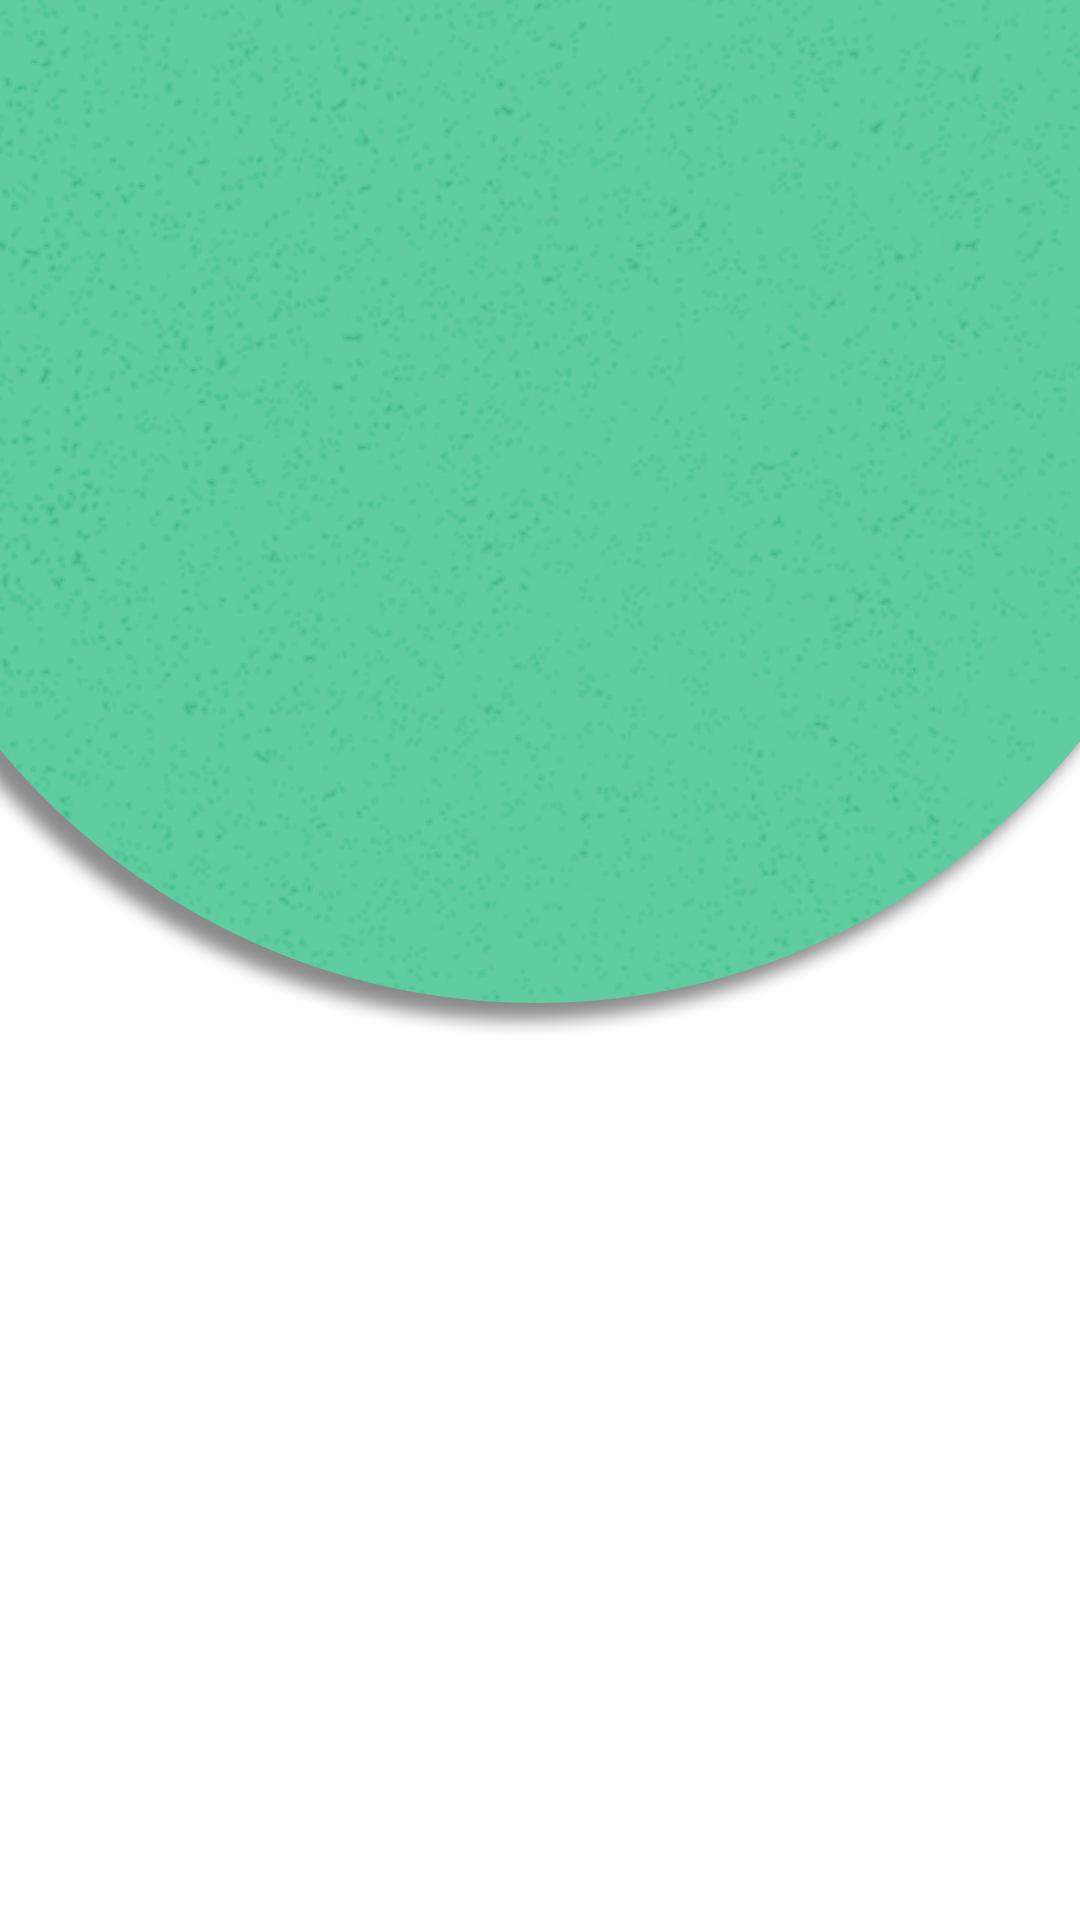
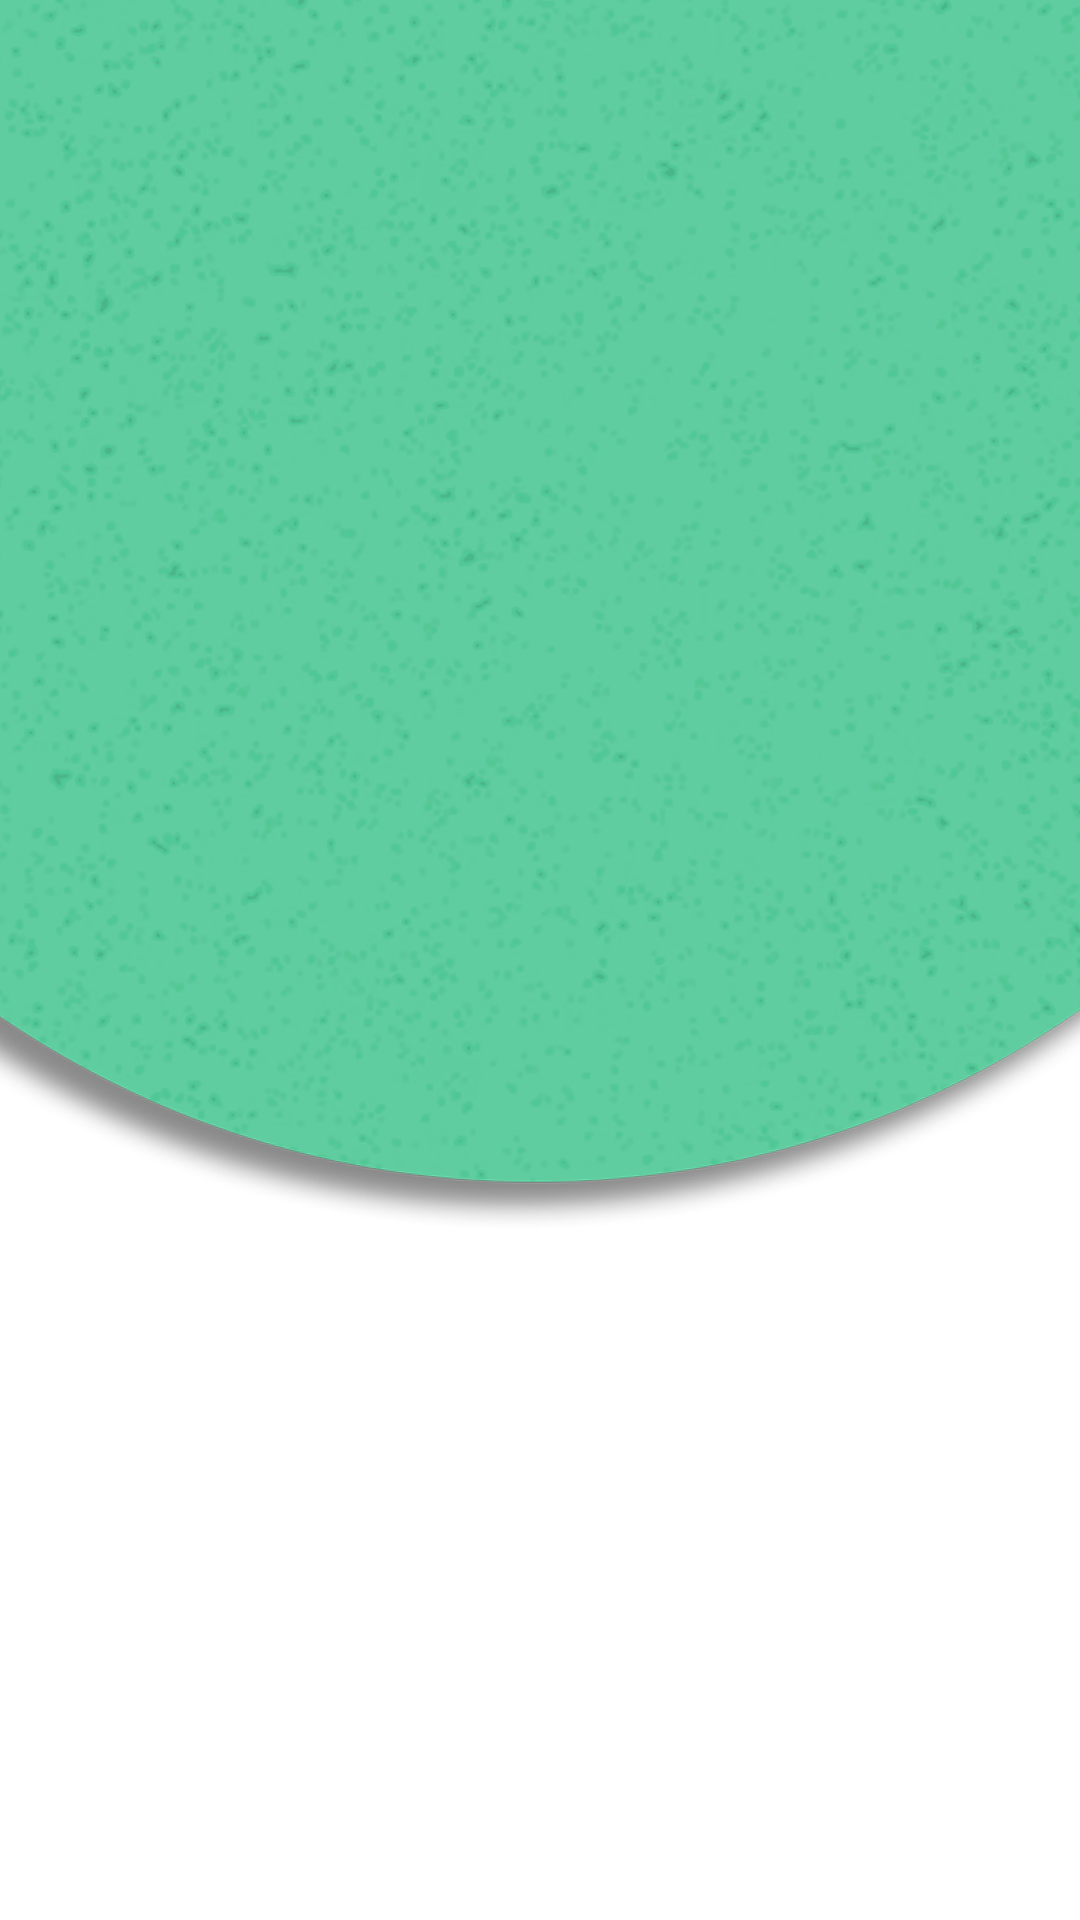
fix the content on smaller devices & some minor changes

Changed region(s): [[0.0, 0.375, 1.0, 0.6562]]

diff --git a/src/Pages/Contactuspage.jsx b/src/Pages/Contactuspage.jsx
@@ -6,7 +6,7 @@ const Contactuspage = () => {
       <Helmet>
         <title>SpiceSavvy - Contact Us </title>
       </Helmet>
-      <div className="container col-9 rounded" id="form">
+      <div className="container rounded" id="form">
         <div className="text-center">
           <h1 className="contact-head text-light">Contact Us</h1>
           <p className="text-light">
@@ -18,16 +18,16 @@ const Contactuspage = () => {
         </div>
         <div className="row d-flex mb-3">
           <div className="col-sm-6">
-            <label for="firstName" class="form-label text-light">
+            <label for="firstName" className="form-label text-light">
               First name
             </label>
-            <input type="text" class="form-control" />
+            <input type="text" className="form-control" />
           </div>
-          <div class="col-sm-6">
-            <label for="lastName" class="form-label text-light">
+          <div className="col-sm-6">
+            <label for="lastName" className="form-label text-light">
               Last name
             </label>
-            <input type="text" class="form-control" />
+            <input type="text" className="form-control" />
           </div>
         </div>
         <div className=" mb-3">
@@ -43,7 +43,7 @@ const Contactuspage = () => {
           <textarea className="form-control" id="text-area" rows="3"></textarea>
         </div>
         <div className="d-flex justify-content-center">
-          <button type="button" class="btn btn-dark btn-lg btn-block btn_contact_us mt-4 p-4">
+          <button type="button" className="btn btn-dark btn-lg btn-block btn_contact_us mt-4 p-4">
             Submit Feedback
           </button>
         </div>

diff --git a/src/Pages/Css/Style.css b/src/Pages/Css/Style.css
@@ -69,8 +69,8 @@ footer,
   background-image: url("/hero-image2.png");
   background-position: center;
   background-repeat: no-repeat;
-  width: 100vw;
-  height: 100vh;
+  width: cover;
+  height: auto;
 }
 
 #hero-btn {
@@ -104,8 +104,8 @@ footer,
 
 #hero-btn:hover {
   color: #fff;
-  border-color:#242424;
-  background-color: #004717;
+  border-color: #242424;
+  background-color: #00b118;
   box-shadow: rgba(0, 0, 0, 0.25) 0 8px 15px;
   transform: translateY(-2px);
 }
@@ -149,6 +149,54 @@ iframe {
   }
 }
 
+@media (max-width: 520px) {
+  #hero-section {
+    flex-wrap: wrap;
+    text-align: center;
+    background-image: url("/hero-image3.png");
+    background-position: center;
+    background-repeat: no-repeat;
+    width: contain;
+    height: auto;
+    position: relative;
+  }
+
+  #hero-container {
+    margin-top: 10px;
+  }
+
+  .hero-btn {
+    display: flex;
+    justify-content: center;
+    align-items: center;
+  }
+
+  .plate-1 {
+    display: flex;
+    justify-content: center;
+    align-items: center;
+    margin-left: 0;
+    margin-top: 100px;
+    margin-right: auto;
+  }
+
+
+}
+
+@media (max-width: 768px) {
+  #hero-section {
+    flex-wrap: wrap;
+  }
+
+  .plate-1 {
+    display: flex;
+    justify-content: center;
+    align-items: center;
+    margin-left: 0;
+    margin-right: auto;
+  }
+}
+
 /*---------------------------------------------------*/
 
 /* Recipe Page */
@@ -182,7 +230,7 @@ iframe {
   outline: none;
   background-color: #f8f9fa;
   font-size: 16px;
-  /* color: #555; */
+  color: #555;
 }
 
 .search-button {
@@ -193,7 +241,7 @@ iframe {
   cursor: pointer;
 }
 
-.fa-pan-frying {
+.fa-magnifying-glass {
   width: 18px;
   height: 18px;
   object-fit: cover;

diff --git a/src/Pages/Home.jsx b/src/Pages/Home.jsx
@@ -8,7 +8,7 @@ function Home() {
         <>
             {/* Hero Section */}
             <section id="hero-section" className="container-fluid p-5 shadow-lg">
-                <div className="container">
+                <div id="hero-container" className="container">
                     <div className="row d-flex">
                         <div className="col-md-6">
                             <img id="cooking" className="img-fluid" src="/cooking.png" alt="image"

diff --git a/src/Pages/Recipepage.jsx b/src/Pages/Recipepage.jsx
@@ -84,7 +84,7 @@ function RecipePage() {
                   onChange={(e) => setSearchQuery(e.target.value)}
                 />
                 <button type="submit" className="search-button">
-                <i className="fa-regular fa-pan-frying fa-bounce"></i>
+                  <i className="fa-regular fa-magnifying-glass"></i>
                 </button>
               </form>
             </div>
